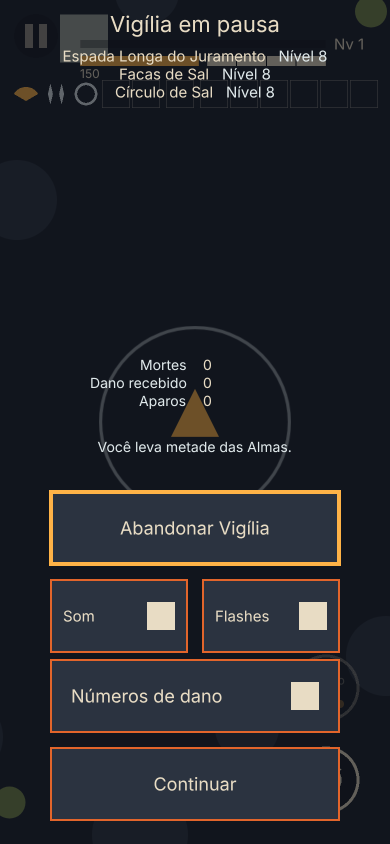
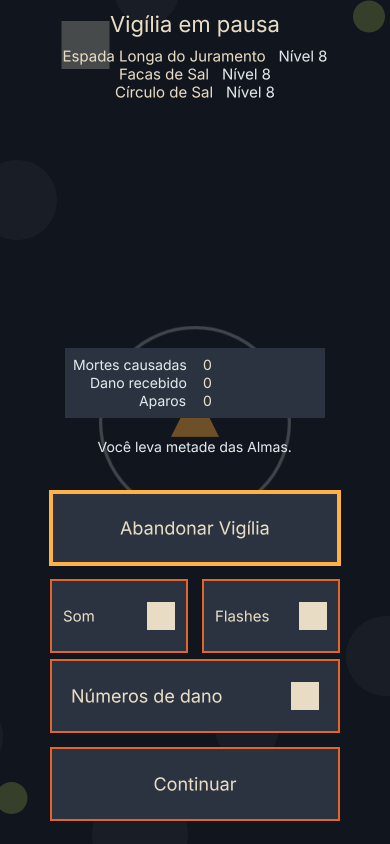
F-007 crítico: pausa legível (Hud escondida, painel opaco, Mortes causadas, linha rotulada) e Abandonar desarmado por outro toque, com testes
Claude-Session: https://claude.ai/code/session_017f1emroqbA3EjynwE49MFA

diff --git a/tests/cenas/vigilia-fim.test.ts b/tests/cenas/vigilia-fim.test.ts
@@ -25,6 +25,8 @@ interface Interno {
   persistirTutoriais(): void;
   tratarToqueDoResultado(b: string): void;
   fecharPausa(): void;
+  abrirPausa(origem: 'botao' | 'gesto'): void;
+  desarmarAbandonar(toque: string | null): void;
   scene: unknown;
   game: unknown;
 }
@@ -63,7 +65,9 @@ function montar(almas = 100, ctxExtra: Partial<ContextoDoJogo> = {}) {
   };
   ctx.simulacao = sim;
   const resultado = { mostrarApagando: vi.fn(), mostrarResultado: vi.fn(), esconder: vi.fn() };
-  const cena = { start: vi.fn(), restart: vi.fn(), get: () => resultado };
+  const pausaCena = { mostrar: vi.fn(), esconder: vi.fn() };
+  const hud = { sys: { setVisible: vi.fn() } };
+  const cena = { start: vi.fn(), restart: vi.fn(), hud, get: (k: string) => (k === 'Pausa' ? pausaCena : k === 'Hud' ? hud : resultado) };
   const v = new Vigilia(ctx) as unknown as Interno;
   v.sim = sim;
   v.scene = cena;
@@ -90,6 +94,47 @@ describe('Abandonar (PE4, PE5)', () => {
     v.tocarAbandonar();
     v.tocarAbandonar();
     expect([sim.pausa.ativa, ctx.entrada.tradutor.modo, ctx.tela]).toEqual([false, 'resultado', 'RESULTADO']);
+  });
+});
+
+describe('Abandonar armado é desarmado por outro toque (PE4; críticos M72 e M73)', () => {
+  it('Continuar, Som, Flashes e Números desarmam; o próprio Abandonar e nenhum toque mantêm; fora da pausa nada muda', () => {
+    const { v, sim } = montar();
+    for (const [pausa, toque, esperado] of [
+      [true, 'continuar', false],
+      [true, 'som', false],
+      [true, 'flashes', false],
+      [true, 'numeros', false],
+      [true, 'abandonar', true],
+      [true, null, true],
+      [false, 'som', true],
+    ] as const) {
+      sim.pausa.ativa = pausa;
+      sim.pausa.abandonarArmado = true;
+      v.desarmarAbandonar(toque);
+      expect(sim.pausa.abandonarArmado, `${pausa} ${toque}`).toBe(esperado);
+    }
+  });
+
+  it('um 2º toque no Abandonar depois de Som não abandona: arma de novo e a Vigília segue VIVA', () => {
+    const { v, sim, estado } = montar();
+    sim.pausa.ativa = true;
+    v.tocarAbandonar();
+    v.desarmarAbandonar('som');
+    v.tocarAbandonar();
+    expect([sim.pausa.abandonarArmado, estado.jogador4U8[JOGADOR4_U8.fase]]).toEqual([true, FASE.viva]);
+  });
+
+  it('abrir a pausa e Continuar desarmam (o toque do jogador reabre desarmado) e a Hud some e volta', () => {
+    const { v, sim, cena } = montar();
+    sim.pausa.abandonarArmado = true;
+    v.abrirPausa('botao');
+    expect([sim.pausa.ativa, sim.pausa.abandonarArmado]).toEqual([true, false]);
+    expect(cena.hud.sys.setVisible).toHaveBeenLastCalledWith(false);
+    sim.pausa.abandonarArmado = true;
+    v.fecharPausa();
+    expect([sim.pausa.ativa, sim.pausa.abandonarArmado]).toEqual([false, false]);
+    expect(cena.hud.sys.setVisible).toHaveBeenLastCalledWith(true);
   });
 });
 

diff --git a/src/cenas/Pausa.ts b/src/cenas/Pausa.ts
@@ -1,5 +1,5 @@
 // Tela de pausa mínima (Q-25; ADR-0002 §11.1, a cena Modal; design/decisoes-F-004.md
-// P5, P6 e P9; decisoes-F-005 §6): véu sobre a Vigília e a Hud, título, a build
+// P5, P6 e P9; decisoes-F-005 §6): véu sobre a Vigília (a Hud some enquanto a pausa está aberta), título, a build
 // (nome e nível de cada arma e de cada passiva, dois Text por linha, a União sem
 // o nível), a opção de números de dano e Continuar. Os
 // Text são criados uma vez, na raiz da cena (o __GAME_DEBUG__.textoAtivo os
@@ -33,6 +33,8 @@ const IDS_DAS_ESTATISTICAS = ['A6.PAUSA.MORTES', 'A6.PAUSA.DANO', 'A6.PAUSA.APAR
 /** Largura de quebra do aviso do Abandonar: duas linhas (PE3). */
 const LARGURA_DO_AVISO = 280;
 const ENTRE_ROTULO_E_VALOR = 8;
+/** Largura do painel opaco das estatísticas: o texto nunca cai sobre o mundo (A1 do crítico). */
+const LARGURA_DO_PAINEL = 260;
 
 export class Pausa extends Phaser.Scene {
   private veu: Phaser.GameObjects.Graphics | null = null;
@@ -50,6 +52,8 @@ export class Pausa extends Phaser.Scene {
   private readonly valoresDasEstatisticas: Phaser.GameObjects.Text[] = [];
   private estatisticasEmUmaLinha: Phaser.GameObjects.Text | null = null;
   private readonly alvos: Alvo[] = [];
+  /** O painel das estatísticas (x, y, largura, altura), desenhado junto dos botões. */
+  private readonly painel = { x: 0, y: 0, largura: LARGURA_DO_PAINEL, altura: 0 };
   private readonly linhas: LinhaDaPausa[] = [];
   private aberta = false;
   /** As opções e o Abandonar armado como foram desenhados (números, som, flashes, armado), para redesenhar só quando mudam. */
@@ -194,6 +198,10 @@ export class Pausa extends Phaser.Scene {
     // Estatísticas e aviso acima do Abandonar (PE3): o fim da build desenhada decide entre três linhas e uma.
     const bloco = blocoDaPausa(abandonar!, y);
     const linha = BLOCO_DO_ABANDONAR.linha;
+    const respiro = BLOCO_DO_ABANDONAR.respiroDoPainel;
+    this.painel.x = cx - LARGURA_DO_PAINEL / 2;
+    this.painel.y = bloco.yDasEstatisticas - respiro;
+    this.painel.altura = bloco.linhasDasEstatisticas * linha + 2 * respiro;
     this.avisoDoAbandonar!.setPosition(cx, bloco.yDoAviso);
     this.estatisticasEmUmaLinha!.setPosition(cx, bloco.yDasEstatisticas).setVisible(bloco.linhasDasEstatisticas === 1);
     for (let k = 0; k < 3; k++) {
@@ -219,6 +227,8 @@ export class Pausa extends Phaser.Scene {
     const o = this.ctx.opcoes;
     this.desenhadas = this.assinaturaDasOpcoes();
     const g = this.botoes!.clear();
+    const p = this.painel;
+    g.fillStyle(COR.cinzaFrio).fillRect(p.x, p.y, p.largura, p.altura);
     const armado = this.ctx.simulacao?.pausa.abandonarArmado === true;
     this.avisoDoAbandonar!.setVisible(armado);
     for (const a of this.alvos) {

diff --git a/src/cenas/Vigilia.ts b/src/cenas/Vigilia.ts
@@ -159,7 +159,7 @@ export class Vigilia extends Phaser.Scene {
     trad.frascoEmCura = sim.estado.jogador4U8[JOGADOR4_U8.frascoPasso]! > 0;
     trad.traduzir(this.ctx.entrada.fila, sim.comandosAoVivo, performance.now());
     // Outro botão da pausa desarma o Abandonar (PE4); o próprio Abandonar arma no 1º toque e confirma no 2º.
-    if (sim.pausa.ativa && trad.toqueNaPausa !== null && trad.toqueNaPausa !== 'abandonar') sim.pausa.abandonarArmado = false;
+    this.desarmarAbandonar(trad.toqueNaPausa);
     // A pausa é inerte em APAGANDO e em FIM (AG3): sem pedido de pausa, e o Resultado cuida dos toques.
     if (trad.pedidoDePausa !== null && !sim.pausa.ativa && fase === FASE.viva) this.abrirPausa(trad.pedidoDePausa);
     else if (sim.pausa.ativa && trad.toqueNaPausa === 'continuar') this.fecharPausa();
@@ -207,6 +207,12 @@ export class Vigilia extends Phaser.Scene {
     if (novos === c.meta.atual) return;
     c.meta.atual = novos;
     c.meta.armazenamento.gravar(novos);
+  }
+
+  /** Outro botão da pausa desarma o Abandonar (PE4): só o próprio Abandonar mantém o armado. */
+  private desarmarAbandonar(toque: string | null): void {
+    const sim = this.sim!;
+    if (sim.pausa.ativa && toque !== null && toque !== 'abandonar') sim.pausa.abandonarArmado = false;
   }
 
   /** O botão Abandonar (PE4): o 1º toque arma (borda de brasa e aviso), o 2º confirma e roda o passo com o bit 16 (PE5). */
@@ -282,6 +288,8 @@ export class Vigilia extends Phaser.Scene {
     this.ctx.entrada.tradutor.mudarModo('pausa');
     // A pausa cala tudo (FB4, RE11): os SFX são AudioBufferSourceNode que o `pauseAll` não toca, mas o `setMute` sim.
     this.game.sound.setMute(true);
+    // A Hud some enquanto a pausa está aberta: a build e as estatísticas caíam sobre a barra de HP e os slots.
+    this.scene.get('Hud').sys.setVisible(false);
     (this.scene.get('Pausa') as Pausa).mostrar();
   }
 
@@ -348,6 +356,7 @@ export class Vigilia extends Phaser.Scene {
     this.ctx.entrada.tradutor.mudarModo('vigilia');
     // Som desligado na pausa continua mudo depois do Continuar.
     this.game.sound.setMute(!this.ctx.opcoes.som);
+    this.scene.get('Hud').sys.setVisible(true);
     (this.scene.get('Pausa') as Pausa).esconder();
   }
 

diff --git a/tests/entrada/alvos.test.ts b/tests/entrada/alvos.test.ts
@@ -16,11 +16,13 @@ import {
   alvosDoResultado,
   blocoDaPausa,
   caixaDaOpcao,
+  BLOCO_DO_ABANDONAR,
   areaDoJoystick,
   type Alvo,
 } from '../../src/entrada/alvos';
 import { clienteParaPontos } from '../../src/entrada/camadaDeToque';
-import { insetsZerados, type Insets } from '../../src/plataforma/safeArea';
+import { RAIO_DO_JOGADOR } from '../../src/logica/mundo/jogador';
+import { ALTURA_LOGICA, insetsZerados, type Insets } from '../../src/plataforma/safeArea';
 
 const CASOS: [string, Insets][] = [
   ['sem insets', insetsZerados()],
@@ -249,6 +251,19 @@ describe('Abandonar e o bloco acima dele (design/decisoes-F-007.md PE3)', () => 
     const abandonar = alvosDaTelaDePausa({ topo: 47, direita: 0, baixo: 34, esquerda: 0 }, []).find((a) => a.id === 'abandonar')!;
     expect(blocoDaPausa(abandonar, 300)).toEqual({ yDoAviso: 404, yDasEstatisticas: 322, linhasDasEstatisticas: 3 });
     expect(blocoDaPausa(abandonar, 340)).toEqual({ yDoAviso: 404, yDasEstatisticas: 358, linhasDasEstatisticas: 1 });
+  });
+
+  it('o painel das estatísticas (com o respiro de 8 pt) não encosta na build e, em 844, fica acima do jogador (A1 do crítico)', () => {
+    const ins: Insets = { topo: 47, direita: 0, baixo: 34, esquerda: 0 };
+    const fimDaBuild = ins.topo + 56 + 11 * 18;
+    const abandonar = alvosDaTelaDePausa(ins, []).find((a) => a.id === 'abandonar')!;
+    const bloco = blocoDaPausa(abandonar, fimDaBuild);
+    const topo = bloco.yDasEstatisticas - BLOCO_DO_ABANDONAR.respiroDoPainel;
+    const base = bloco.yDasEstatisticas + bloco.linhasDasEstatisticas * 18 + BLOCO_DO_ABANDONAR.respiroDoPainel;
+    expect(topo).toBeGreaterThanOrEqual(fimDaBuild);
+    // O jogador fica no centro da tela (ALTURA/2) e o triângulo sobe ~2 raios (16 pt) dele.
+    expect(base).toBeLessThanOrEqual(ALTURA_LOGICA / 2 - 2 * RAIO_DO_JOGADOR);
+    expect(base).toBeLessThanOrEqual(bloco.yDoAviso);
   });
 
   it('o Resultado tem Voltar e Repetir de 288 × 72 pt dentro da área segura, sem se tocar', () => {

diff --git a/src/entrada/alvos.ts b/src/entrada/alvos.ts
@@ -160,7 +160,7 @@ export function alvosDaTelaDePausa(insets: Insets, out: Alvo[]): Alvo[] {
 }
 
 /** Estatísticas e aviso do Abandonar na pausa (PE3): linhas de 18 pt, o aviso em 2 linhas a 18 pt do botão. */
-export const BLOCO_DO_ABANDONAR = { linha: 18, linhasDoAviso: 2, folgaDoAviso: 18, folgaDasEstatisticas: 28 } as const;
+export const BLOCO_DO_ABANDONAR = { linha: 18, linhasDoAviso: 2, folgaDoAviso: 18, folgaDasEstatisticas: 28, respiroDoPainel: 8 } as const;
 
 export interface BlocoDaPausa {
   /** Topo do aviso (2 linhas) e das estatísticas, e quantas linhas as estatísticas ocupam (3, ou 1 sem espaço: "12 · 340 · 3"). */
@@ -177,7 +177,8 @@ export function blocoDaPausa(abandonar: Alvo, topoLivre: number): BlocoDaPausa {
   const b = BLOCO_DO_ABANDONAR;
   const yDoAviso = abandonar.y - b.folgaDoAviso - b.linhasDoAviso * b.linha;
   const fundo = yDoAviso - b.folgaDasEstatisticas;
-  const tres = fundo - 3 * b.linha >= topoLivre;
+  // O painel opaco das estatísticas tem um respiro acima e abaixo do texto, e também não encosta na build.
+  const tres = fundo - 3 * b.linha - b.respiroDoPainel >= topoLivre;
   return { yDoAviso, yDasEstatisticas: tres ? fundo - 3 * b.linha : fundo - b.linha, linhasDasEstatisticas: tres ? 3 : 1 };
 }
 

diff --git a/e2e/f007.spec.ts b/e2e/f007.spec.ts
@@ -139,6 +139,7 @@ test('pausa: estatísticas e Abandonar em duas etapas (evidência: pausa-390x844
   const ativo = await page.evaluate(() => window.__GAME_DEBUG__.textoAtivo);
   expect(ativo).toEqual(expect.arrayContaining(['A6.PAUSA.ABANDONAR', 'A6.PAUSA.MORTES', 'A6.PAUSA.DANO', 'A6.PAUSA.APAROS']));
   expect(ativo, 'as Almas não aparecem na pausa (AM5)').not.toContain('A5.HUD.ALMAS');
+  expect(ativo.filter((id) => id.startsWith('A5.HUD.')), 'a Hud some na pausa: a build não cai sobre o HP e os slots').toEqual([]);
   expect(ativo, 'o aviso só aparece armado').not.toContain('A6.PAUSA.ABANDONAR_AVISO');
   await tocar(page, abandonar);
   await quadrosDeEspera(page, 8);
